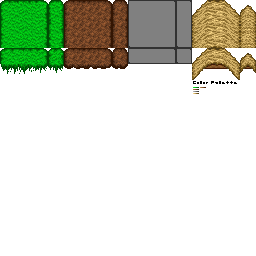
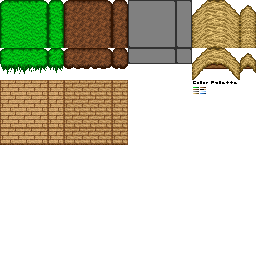
Added wooden floor texture.  Added basic physics for Things, including gravity, pushing, friction, and collision checking for moving Things. This all needs testing though, as there are no visible Things yet!

Changed region(s): [[0.0, 0.3125, 0.5, 0.5938], [0.7812, 0.3438, 0.8125, 0.375]]

diff --git a/src/things/Thing.java b/src/things/Thing.java
@@ -2,6 +2,8 @@ package things;
 
 import org.newdawn.slick.opengl.Texture;
 
+import world.World;
+
 import entities.Agent.direction;
 
 public abstract class Thing {
@@ -12,7 +14,11 @@ public abstract class Thing {
 	boolean transparent = false; //true if thing should not block light sources
 	private boolean lightSource = false;
 	private int[] pos = new int[3]; //Position (x, y, z)
+	private float[] realOffset = new float[3]; //sub-grid offset from the current position (x, y, z) measured in pixels (default is 16 pixels per grid space)
+	private float[] pixelOffset = new float[2]; //Pixel offset from current position (x, y, z), truncated to the nearest pixel when rendering
 	private direction dir;	//direction the thing is facing
+	private float terminalVelocity = 8.0f; //maximum change in offset allowed
+	private float[] velocity = new float[3]; //frame-by-frame changes in (x, y, z) position of the thing
 	
 	//Texture
 	Texture texture;
@@ -34,6 +40,134 @@ public abstract class Thing {
 	 * @param terrainTextureSize the pixel dimensions of a terrain tile
 	 */
 	public abstract void renderThing(int pixelSize, int terrainTextureSize);
+	
+	/**
+	 * Define at what point gravity affects the thing.  This defaults to determining if a blocking thing, agent, or
+	 * terrain is below the thing by one space in the z direction.  This can be overriden.
+	 * 
+	 * @param world the world in which the thing exists
+	 * @return true if the object should not be at rest with regards to gravity
+	 */
+	private boolean gravityCheck(World world)
+	{
+		//check if there's room to fall
+		if (!blockedBelow(world))
+			return true;
+		
+		//case where object is currently falling (based on offset), but won't fall down a z-level in the grid
+		if (realOffset[2] > 0)
+			return true;
+		
+		return false;
+	}
+	
+	/**
+	 * Define how gravity affects the thing.  This is defaulted to have objects fall with nothing
+	 * below them, but it can be overridden.  This method also assumes an offset is used to render objects
+	 * within different grid locations, with the default offset being 16 pixels per grid cell.
+	 * 
+	 * @param world the world in which the thing exists
+	 */
+	public void applyGravity(World world)
+	{
+		//check to see if gravity should be acting on an object
+		if (gravityCheck(world))
+			velocity[2] = Math.max(velocity[2] - 1.0f, -terminalVelocity);
+		else
+			velocity[2] = 0;
+	}
+	
+	/**
+	 * Determine if a thing is blocked by the z-axis space under it
+	 * @param world the world in which the thing exists
+	 * @return
+	 */
+	private boolean blockedBelow(World world)
+	{
+		if (pos[2] - 1 < 0)
+			return true;
+		if ((world.getTerrainAt(pos[0], pos[1], pos[2] - 1) != null && world.getTerrainAt(pos[0], pos[1], pos[2] - 1).isBlocking())
+				|| (world.getThingAt(pos[0], pos[1], pos[2] - 1) != null && world.getThingAt(pos[0], pos[1], pos[2] - 1).isBlocking())
+				|| world.getAgentAt(pos[0], pos[1], pos[2] - 1) != null)
+			return true;
+		return false;
+	}
+	
+	private boolean blockedAbove(World world)
+	{
+		if (!world.isInBounds(pos[0], pos[1], pos[2] + 1)
+				|| (world.getTerrainAt(pos[0], pos[1], pos[2] + 1) != null && world.getTerrainAt(pos[0], pos[1], pos[2] + 1).isBlocking())
+				|| (world.getThingAt(pos[0], pos[1], pos[2] + 1) != null && world.getThingAt(pos[0], pos[1], pos[2] + 1).isBlocking())
+				|| world.getAgentAt(pos[0], pos[1], pos[2] + 1) != null)
+			return true;
+		return false;
+	}
+	
+	private boolean blockedInDirection(World world, direction d)
+	{
+		int x = pos[0], y = pos[1], z = pos[2];
+		
+		switch (d)
+		{
+		case left: x -= 1; break;
+		case right: x += 1; break;
+		case up: y += 1; break;
+		case down: y -= 1; break;
+		}
+		
+		if (!world.isInBounds(x, y, z) || world.isBlocked(x, y, z))
+			return true;
+		return false;
+	}
+	
+	/**
+	 * Add velocity to offset and update the thing's position accordingly.  This method assumes
+	 * a thing cannot occupy the same space as a blocking terrain, a blocking thing, or an agent.
+	 * 
+	 * @param world the world in which the thing exists
+	 */
+	public void propagateOffset(World world)
+	{
+		realOffset[0] += velocity[0];
+		realOffset[1] += velocity[1];
+		realOffset[2] += velocity[2];
+		
+		
+		
+		//Hitting ceilings or moving up
+		while (realOffset[2] > 8)
+		{
+			if (blockedAbove(world))
+			{
+				realOffset[2] = 8;
+				velocity[2] = 0;
+			}
+			else
+			{
+				realOffset[2] -= 16;
+				world.moveThing(this, 0, 0, 1);
+			}
+		}
+		
+		//Hitting floors or dropping down
+		while (realOffset[2] < -8)
+		{
+			if (blockedBelow(world))
+			{
+				realOffset[2] = 0;
+				velocity[2] = 0;
+			}
+			else
+			{
+				realOffset[2] += 16;
+				world.moveThing(this, 0, 0, -1);
+			}
+		}
+	}
+	
+	//***********************************************************
+	//**************** Getters and Setters **********************
+	//***********************************************************
 	
 	/**
 	 * Getter for blocking

diff --git a/src/world/World.java b/src/world/World.java
@@ -585,9 +585,9 @@ public class World {
 						    	rightEmpty = i + 1 >= terrainGrid.length || terrainGrid[i+1][j][k+1].getTerrainType() == air;
 				    			leftEmpty = i - 1 < 0 || terrainGrid[i-1][j][k+1].getTerrainType() == air;
 					    	}
-			    			
+							
 				    		texY += 4;
-				    		
+							
 				    		if (leftEmpty && rightEmpty)
 				    		{
 				    			texX += 3;
@@ -829,9 +829,41 @@ public class World {
 		t.setPos(pos);
 	}
 	
+	public void removeThingAt(int x, int y, int z)
+	{
+		thingGrid[x][y][z] = null;
+	}
+	
+	public void moveThing(Thing thing, int xChange, int yChange, int zChange)
+	{
+		int[] pos = thing.getPos();
+		int oldX = pos[0];
+		int oldY = pos[1];
+		int oldZ = pos[2];
+		int newX = oldX + xChange;
+		int newY = oldY + yChange;
+		int newZ = oldZ + zChange;
+		if (newX < 0 || newX >= thingGrid.length || newY < 0 || newY >= thingGrid[0].length || newZ < 0 || newZ >= thingGrid[0][0].length)
+		{
+			System.out.println("Could not move agent, position out of bounds");
+		}
+		else
+		{
+			int[] newPos = {newX, newY, newZ};
+			thing.setPos(newPos);
+			thingGrid[oldX][oldY][oldZ] = null;
+			thingGrid[newX][newY][newZ] = thing;
+		}
+	}
+	
 	public Thing getThingAt(int x, int y, int z)
 	{
 		return thingGrid[x][y][z];
+	}
+	
+	public Terrain getTerrainAt(int x, int y, int z)
+	{
+		return terrainGrid[x][y][z];
 	}
 	
 	public void moveAgent(Agent agent, int xChange, int yChange, int zChange)

diff --git a/src/world/Terrain.java b/src/world/Terrain.java
@@ -5,7 +5,7 @@ import static world.Terrain.terrainType.*;
 public class Terrain {
 	public enum terrainType
 	{
-		grass, dirt, air, rock, thatch, glass
+		grass, dirt, air, rock, thatch, glass, woodFloor
 	}
 	
 	boolean blocking;
@@ -213,9 +213,9 @@ public class Terrain {
 		case glass:
 			texRow = 0; texCol = 3; break;
 			
-		//Unset
+		//Unset (blank)
 		default:
-			texRow = 0; texCol = 0; break;
+			texRow = 2; texCol = 3; break;
 		}
 		
 		//Horizontal textures
@@ -229,6 +229,12 @@ public class Terrain {
 			texRowTop = 0; texColTop = 2; break;
 		case thatch:
 			texRowTop = 0; texColTop = 3; break;
+		case woodFloor:
+			texRowTop = 1; texColTop = 0; break;
+		
+		//Unset (blank)
+		default:
+			texRowTop = 2; texColTop = 3; break;
 		}
 	}
 }

diff --git a/src/main/GameMain.java b/src/main/GameMain.java
@@ -578,7 +578,7 @@ public class GameMain {
 		{
 			for (int j = 30; j <= 38; j ++)
 			{
-				t[i][j][0] = new Terrain(dirt);
+				t[i][j][0] = new Terrain(dirt, woodFloor);
 				if (i == 30 || i == 42)
 				{
 					t[i][j][5] = new Terrain(air);
